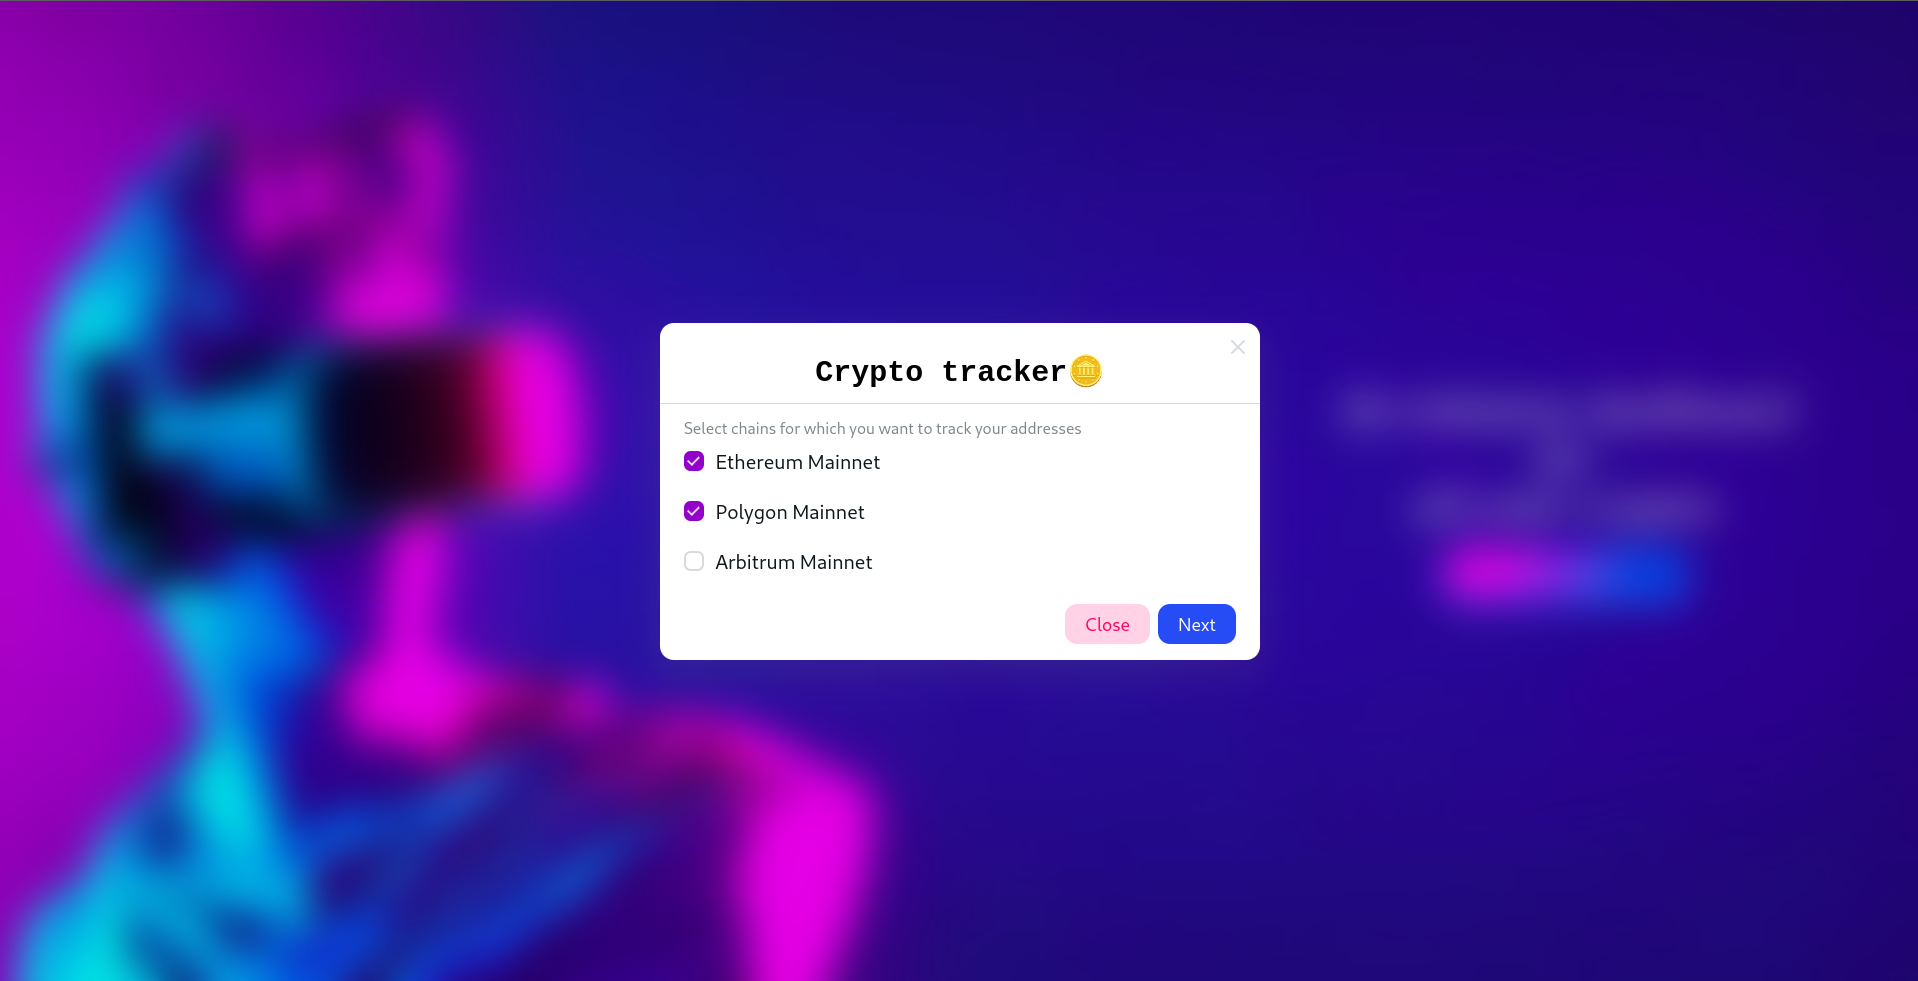
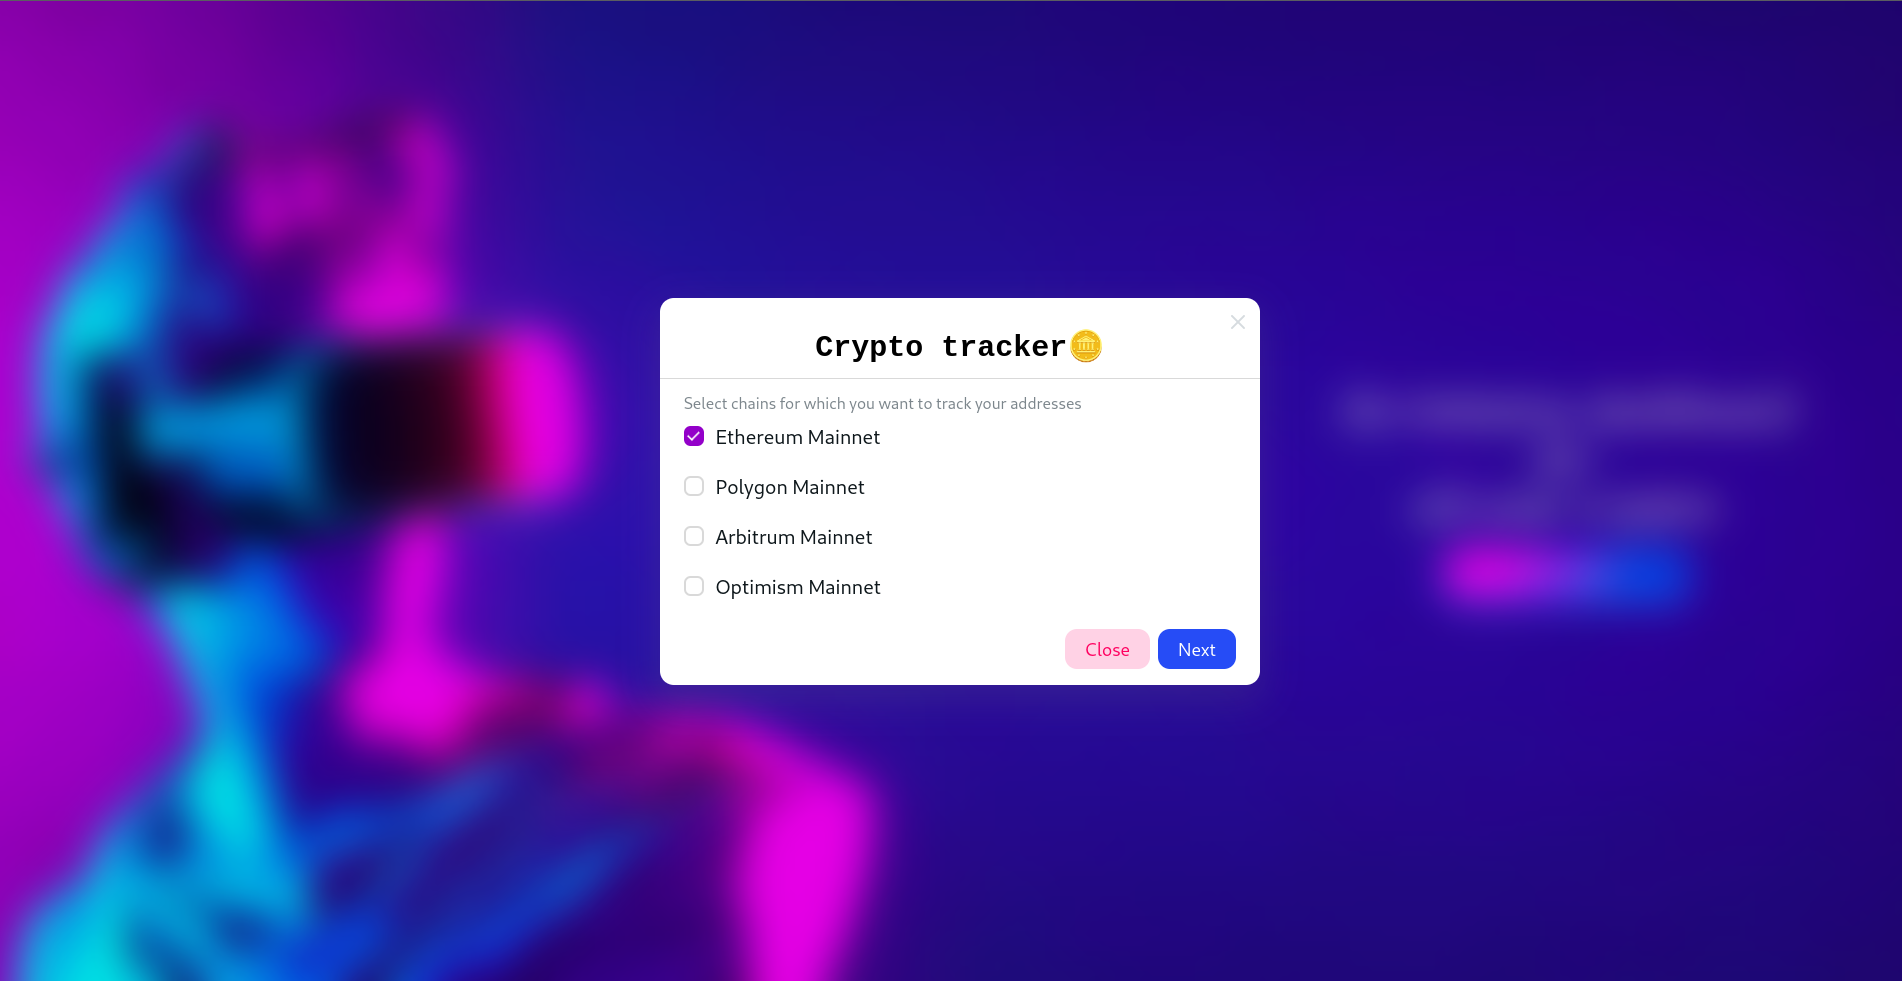
some minor changes and readme modified

Changed region(s): [[0.3412, 0.3058, 0.6824, 0.7034], [0.7445, 0.5505, 0.7755, 0.6116]]

diff --git a/src/components/Tracker/MainCryptoTracker.tsx b/src/components/Tracker/MainCryptoTracker.tsx
@@ -70,15 +70,15 @@ const MainCryptoTracker = () => {
 				}}
 			>
 				<div className="pr-32">
-					{chains.map((chain, idx) => {
+					{chains.map((chain, idx1) => {
 						return (
-							<div key={idx}>
+							<div key={idx1}>
 								<HeadingChainComponent idx={Number(chain)} />
-								{address.map((addr, idx) => {
+								{address.map((addr, idx2) => {
 									return (
-										<div key={idx}>
+										<div key={idx2}>
 											<HeadingAddressComponent address={addr} />
-											<MyTable allMyData={allData[Number(chain)][idx]} />
+											<MyTable allMyData={allData[idx1][idx2]} />
 										</div>
 									);
 								})}

diff --git a/src/components/Home/SelectChains.tsx b/src/components/Home/SelectChains.tsx
@@ -21,7 +21,7 @@ const SelectChains = ({ myChains, setMyChains }: SelectChainsProps) => {
 				<Checkbox value="0">Ethereum Mainnet</Checkbox>
 				<Checkbox value="1">Polygon Mainnet</Checkbox>
 				<Checkbox value="2">Arbitrum Mainnet</Checkbox>
-				{/* <Checkbox value="3">Optimism Mainnet</Checkbox> */}
+				<Checkbox value="3">Optimism Mainnet</Checkbox>
 			</Checkbox.Group>
 		</div>
 	);

diff --git a/README.md b/README.md
@@ -4,23 +4,23 @@ Track your crypto portfolio in just three clicks.
 
 ---
 
-#### This is how the dashboard looks like 🔥🚀
+### This is how the dashboard looks like 🔥🚀
 
 ![alt text - loading.....](githubImg/01.png)
 
-##### How many addresses would you like to track, you can track up to seven address 😍
+#### How many addresses would you like to track, you can track up to seven address 😍
 
 ![alt text - loading.....](githubImg/02.png)
 
 ![alt text - loading.....](githubImg/03.png)
 
-##### Select chains for which you want to track your addresses ❤🔥
+#### Select chains for which you want to track your addresses ❤🔥
 
 ![alt text - loading.....](githubImg/04.png)
 
 ![alt text - loading.....](githubImg/05.png)
 
-##### Here's all the currencies and token associated with your addresses 🤠
+#### Here's all the currencies and token associated with your addresses 🤠
 
 ![alt text - loading.....](githubImg/06.png)
 
